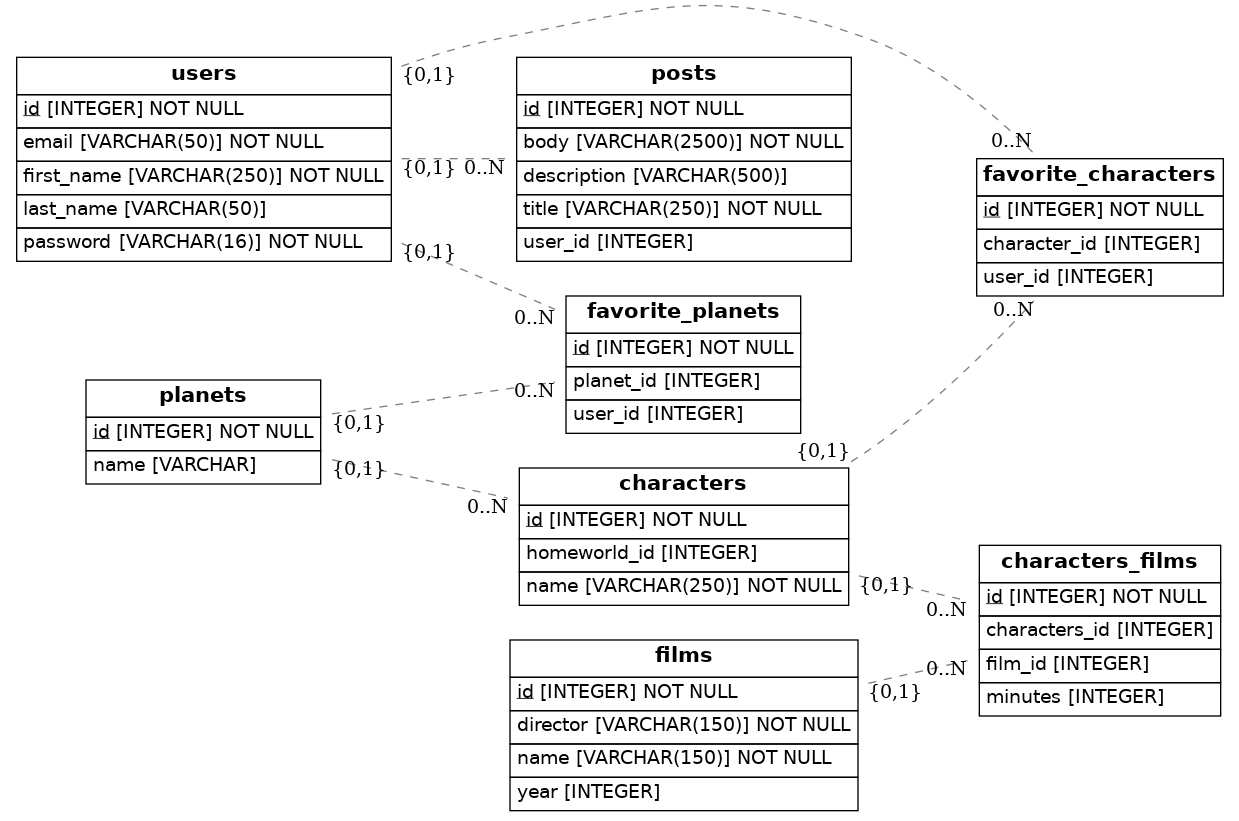
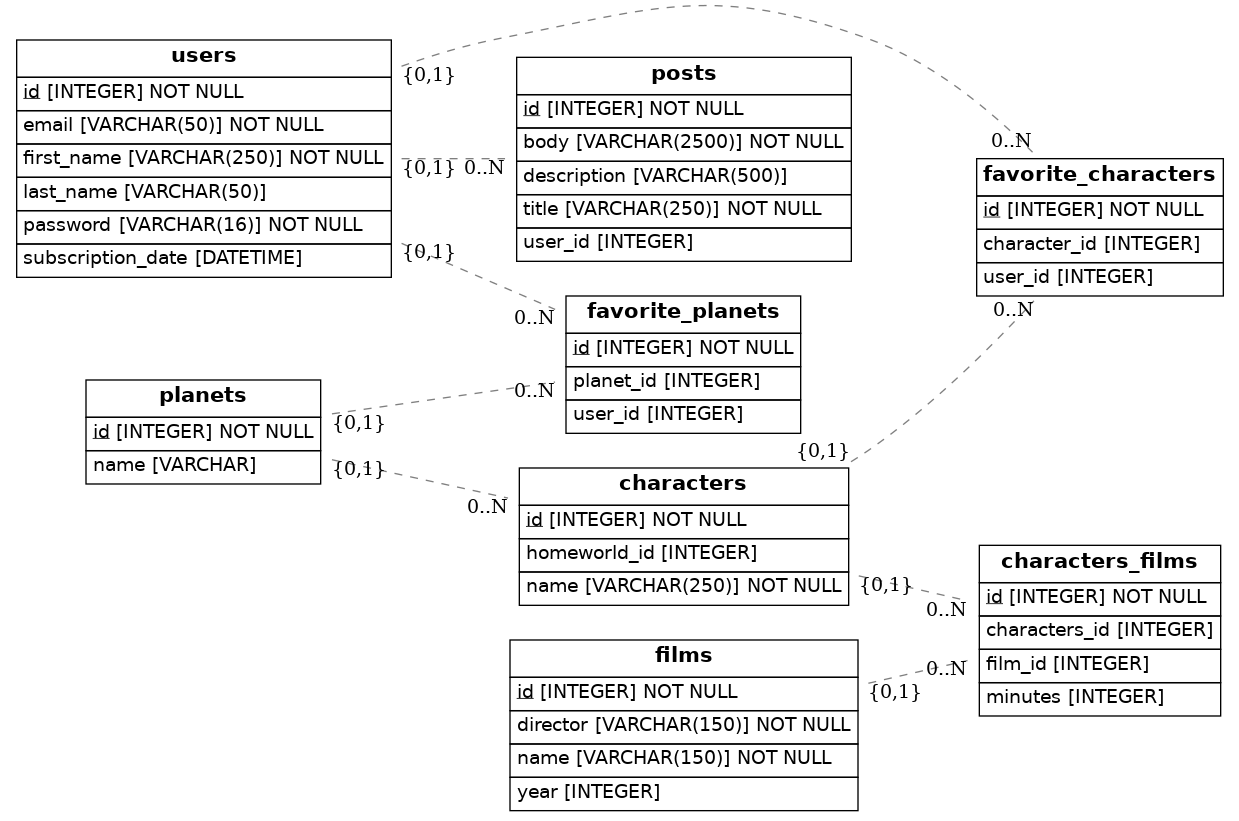
añadiendo fecha de subscripcion

Changed region(s): [[0.0, 0.0609, 0.3067, 0.335]]

diff --git a/src/models.py b/src/models.py
@@ -1,9 +1,10 @@
 import os
 import sys
-from sqlalchemy import Column, ForeignKey, Integer, String
+from sqlalchemy import Column, ForeignKey, Integer, String, DateTime, func
 from sqlalchemy.orm import relationship, declarative_base
 from sqlalchemy import create_engine
 from eralchemy2 import render_er
+from datetime import datetime
 
 Base = declarative_base()
 
@@ -14,6 +15,7 @@ class Users(Base):
     first_name = Column(String(250), nullable=False)
     last_name = Column(String(50))
     password = Column(String(16), nullable=False)
+    subscription_date = Column(DateTime, server_default=func.now()) # Nueva columna de fecha de subscripción
 
 class Posts(Base):
     __tablename__ = 'posts'
